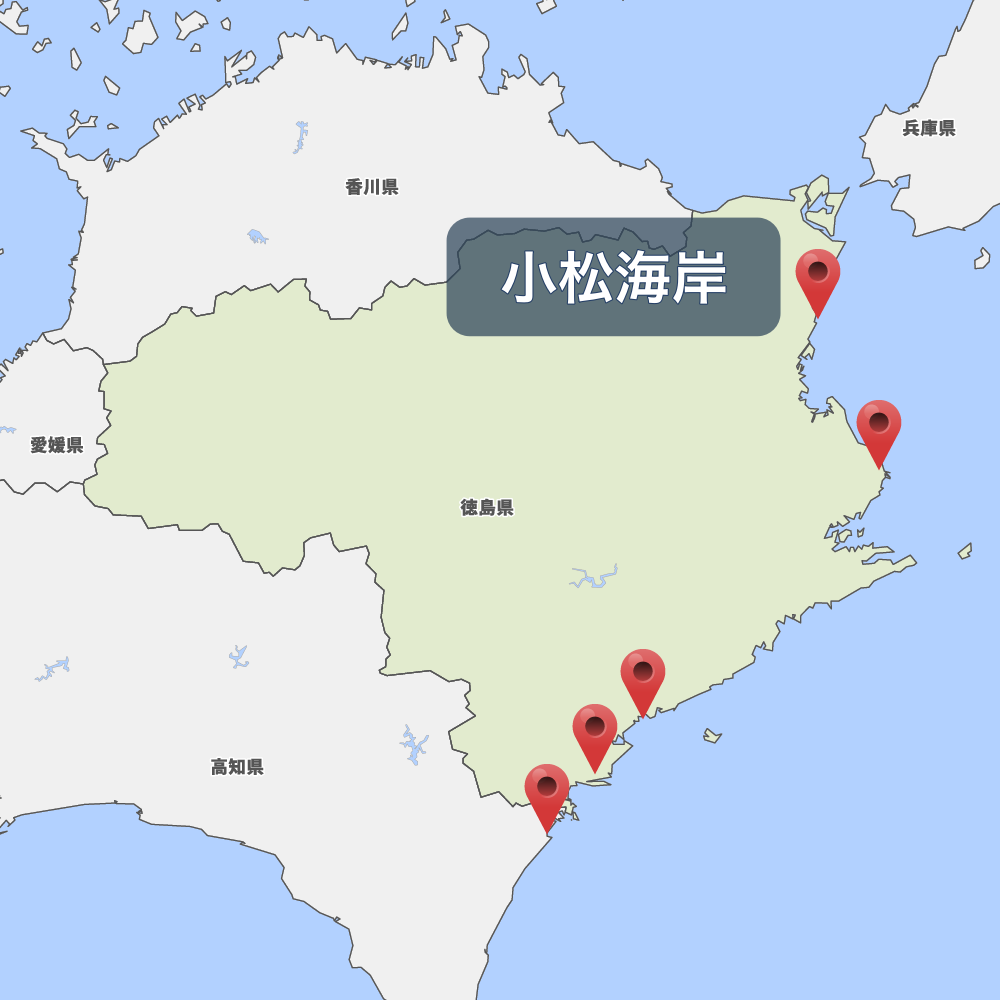
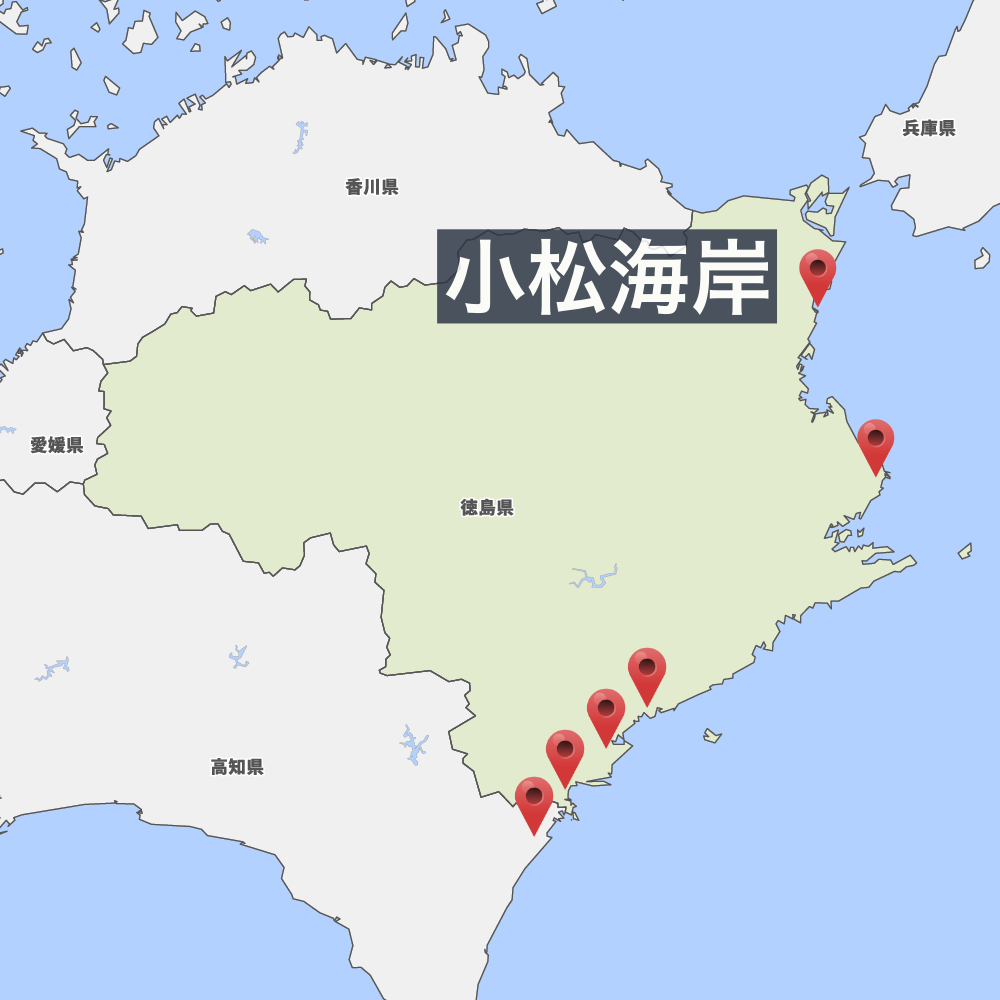
modify

Changed region(s): [[0.434, 0.217, 0.837, 0.341], [0.496, 0.651, 0.682, 0.837], [0.837, 0.403, 0.899, 0.465]]

diff --git a/index.html b/index.html
@@ -58,78 +58,39 @@
       </label>
 
       <div id="gnav-content">
-        <!-- タイトルを記載ください -->
         <div class="humb-menu__title">
           <img src = "image/logo.png" class = "humbmenu_logo">
         </div>
 
         <a href="#top">
           <label for="gnav-input">
-            <!-- 親要素の名前 -->
             <p>TOP</p>
-            <!-- <p><a href="#top">TOP</a></p> -->
           </label>
         </a>
-        <!-- <input type="checkbox" id="label1" class="cssacc" />
-        <div class="accshow"> -->
-          <!-- 子要素の名前 -->
-          <!-- <p>content</p>
-          <p>content</p>
-          <p>content</p>
-          <p>content</p>
-        </div> -->
 
         <a href="#map">
           <label for="gnav-input">
             <p>AREA MAP</p>
           </label>
         </a>
-        <!-- <input type="checkbox" id="label2" class="cssacc" />
-        <div class="accshow">
-          <p>content</p>
-          <p>content</p>
-          <p>content</p>
-          <p>content</p>
-        </div> -->
 
         <a href="#spot">
           <label for="gnav-input">
             <p>SURF SPOT</p>
           </label>
         </a>
-        <!-- <input type="checkbox" id="label3" class="cssacc" />
-        <div class="accshow">
-          <p>小松</p>
-          <p>内妻</p>
-          <p>宍喰</p>
-          <p>郁美</p>
-        </div> -->
 
         <a href="#lesson">
           <label for="gnav-input">
             <p>ONLINE LESSON</p>
           </label>
         </a>
-        <!-- <input type="checkbox" id="label4" class="cssacc" />
-        <div class="accshow">
-          <p>content</p>
-          <p>content</p>
-          <p>content</p>
-          <p>content</p>
-        </div> -->
 
         <a href="#contact">
           <label for="gnav-input">
             <p>CONTACT</p>
           </label>
         </a>
-        <!-- <input type="checkbox" id="label5" class="cssacc" />
-        <div class="accshow">
-          <p>content</p>
-          <p>content</p>
-          <p>content</p>
-          <p>content</p>
-        </div> -->
 
       </div>
     </div>
@@ -142,7 +103,6 @@
 
   <!-- main -->
   <!-- img -->
-  <!-- <img src = "image/home.jpg" class = "home_img"> -->
   <div class="slider_box">
     <ul class="slider">
       <li><img id="img1" src="image/profile2.jpg" alt=""></li>
@@ -159,23 +119,26 @@
   </div> -->
 
 
-<!-- <iframe width="650" height="450" src="https://embed.windy.com/embed2.html?lat=33.115&lon=134.314&detailLat=33.548&detailLon=134.360&width=650&height=450&zoom=7&level=surface&overlay=waves&product=ecmwfWaves&menu=&message=true&marker=&calendar=24&pressure=&type=map&location=coordinates&detail=&metricWind=default&metricTemp=default&radarRange=-1" frameborder="0"></iframe> -->
-<!-- <iframe src="http://weather-gpv.info/parts/bpm.php?model=cwm&element=wv&latsc=1&w=250&h=350&area=cs&lx=531&ly=308" width=250 height=350 scrolling=NO frameborder=0 border=0 marginwidth=0 marginheight=0></iframe> -->
-
-
-
   <!-- content -->
   <a id="map"></a>
   <div class="content_map">
     <h1 class='content_title'>AREA MAP</h1>
     <div class="areamap">
       <img src="image/map.png" class="areamap_image" usemap="#ImageMap" alt="" />
-      <map name="ImageMap">
-        <area shape="circle" coords="817,285,48" href="https://ameblo.jp/glaresurf/"　target="_blank" alt="komatu" id="map_komatu" />
-        <area shape="circle" coords="881,434,52" href="https://ameblo.jp/ikumi-michishio/" target="_blank"　alt="tatumi" id="map_tatumi" />
+      <!-- <map name="ImageMap">
+        <area shape="circle" coords="818,276,32" href="https://ameblo.jp/glaresurf/"　target="_blank" alt="komatu" id="map_komatu" />
+        <area shape="circle" coords="877,448,32" href="https://ameblo.jp/ikumi-michishio/" target="_blank"　alt="tatumi" id="map_tatumi" />
         <area shape="circle" coords="648,676,42" href="https://ameblo.jp/ikumi-michishio/" target="_blank"　alt="utizuma" id="map_utizuma" />
         <area shape="circle" coords="598,738,38" href="https://ameblo.jp/ikumi-michishio/" target="_blank"　alt="shirahama" id="map_shirahama"/>
         <area shape="circle" coords="548,800,37" href="https://ameblo.jp/ikumi-michishio/" target="_blank"　alt="ikumi" id="map_ikumi"/>
+      </map> -->
+      <map name="ImageMap">
+        <area shape="circle" coords="818,276,32" href="https://ameblo.jp/glaresurf/"　target="_blank" alt="komatu" id="map_komatu" />
+        <area shape="circle" coords="877,448,32" href="#map" alt="tatumi" id="map_tatumi" />
+        <area shape="circle" coords="649,672,29" href="#map" alt="utizuma" id="map_utizuma" />
+        <area shape="circle" coords="606,713,28" href="#map" alt="shishikui" id="map_shishikui"/>
+        <area shape="circle" coords="566,753,27" href="#map" alt="shirahama" id="map_shirahama"/>
+        <area shape="circle" coords="533,800,26" href="https://www.youtube.com/watch?v=nJ21An9OwgA" target="_blank"　 alt="ikumi" id="map_ikumi"/>
       </map>
     </div>
     <p>（ピンをタップするとオンラインレッスン動画に飛びます。）</p>
@@ -199,9 +162,9 @@
             <p>波質：ダンパー多め。潮の満ち引きにより若干の変動あり。</p>
             <p>潮の狙い目：小波=干潮、中,大波=満潮。満潮波の大きさにより変動あり。</p>
             <h2>CAUTION</h2>
-            <p>ダンパーな波質なため、ボードクラッシュに注意。堤防の付近はカレントに注意。</p>
+            <p>ダンパーな波質なため、ボードクラッシュに注意。堤防の付近はカレントに注意。夏には海水浴場にて規制があるため注意。</p>
           </div>
-          <img src = "image/profile.jpg" class = "box_image">
+          <img src = "image/komatu.jpg" class = "box_image">
         </div>
       </div>
 
@@ -218,7 +181,7 @@
             <h2>CAUTION</h2>
             <p>カレントが強いため注意。満潮時、砂浜が見えず危険。</p>
           </div>
-          <img src = "image/profile.jpg" class = "box_image">
+          <img src = "image/tatsumi.jpg" class = "box_image">
         </div>
       </div>
 
@@ -252,7 +215,24 @@
             <h2>CAUTION</h2>
             <p>満潮時にはテトラポットが海水に浸かるため、サーフィン時には注意。</p>
           </div>
-          <img src = "image/profile.jpg" class = "box_image">
+          <img src = "image/shishikui.jpg" class = "box_image">
+        </div>
+      </div>
+
+      <div class="box">
+        <div class="box_wrap">
+          <div class="sentence_box">
+            <h1>白浜海岸 <span>(Shirahama)</span></h1>
+            <h2>ACCESS</h2>
+            <p>〒781-7413 高知県安芸郡東洋町白浜</p>
+            <h2>FEATURE</h2>
+            <p>うねり：南</p>
+            <p>波質：優しい</p>
+            <p>潮の狙い目：常に良い</p>
+            <h2>CAUTION</h2>
+            <p>台風時など良い波がくる。夏は海水浴場として規制があるため注意。</p>
+          </div>
+          <img src = "image/shirahama.jpg" class = "box_image">
         </div>
       </div>
 
@@ -269,7 +249,7 @@
             <h2>CAUTION</h2>
             <p>ポイント中央に岩があるため注意。</p>
           </div>
-          <img src = "image/profile.jpg" class = "box_image">
+          <img src = "image/ikumi.jpg" class = "box_image">
         </div>
       </div>
       
@@ -281,35 +261,35 @@
     <h1 class='content_title'>ONLINE LESSON</h1>
 
     <div class="lesson_detail">
-      <img src = "image/profile.jpg" class = "lesson_image">
+      <img src = "image/0.png" class = "lesson_image">
       <h1 class="lesson_number" id='lesson0_number'><span>00</span>パドリング</h1>
       <div class="sentence_lesson" id='lesson0_sentence'>
         <p>波に乗るためにはパドリングが必要です。波がきたと思ったら、まずはパドリングをしましょう。</p>
-        <h2>胸を張って、常に顔をあげ前を向くようにしましょう！</h2>
+        <h2>常に、胸を張って、顔をあげ、目線が前に向くようにしましょう！</h2>
       </div>
     </div>
 
     <div class="lesson_detail">
-      <img src = "image/profile.jpg" class = "lesson_image">
-      <h1 class="lesson_number" id='lesson1_number'><span>01</span>しゃちほこ</h1>
+      <img src = "image/1.png" class = "lesson_image">
+      <h1 class="lesson_number" id='lesson1_number'><span>01</span>腕立ての姿勢</h1>
       <div class="sentence_lesson" id='lesson1_sentence'>
         <p>はじめに、手を胸の横につけます。そして、腕を伸ばして体を持ち上げる姿勢を作ります。</p>
-        <h2>前を向き、しゃちほこ意識！</h2>
+        <h2>腕ををつく際、目線を下に落とさないようにしましょう！</h2>
       </div>
     </div>
 
     <div class="lesson_detail">
-      <img src = "image/profile.jpg" class = "lesson_image">
-      <h1 class="lesson_number" id='lesson2_number'><span>02</span>膝着きしゃちほこ</h1>
+      <img src = "image/2.png" class = "lesson_image">
+      <h1 class="lesson_number" id='lesson2_number'><span>02</span>右膝をつく</h1>
       <div class="sentence_lesson" id='lesson2_sentence'>
         <p>次に立った際、後ろ足になる足の膝をおへその下につきます。その際に足の指先は立てるようにします。</p>
-        <h2>ここでは爪先立てること意識しよう！</h2>
+        <h2>つま先を立てるようにしましょう！</h2>
       </div>
     </div>
 
     <div class="lesson_detail">
-      <img src = "image/profile.jpg" class = "lesson_image">
-      <h1 class="lesson_number" id='lesson3_number'><span>03</span>スタート姿勢</h1>
+      <img src = "image/3.png" class = "lesson_image">
+      <h1 class="lesson_number" id='lesson3_number'><span>03</span>左足をつく</h1>
       <div class="sentence_lesson" id='lesson3_sentence'>
         <p>立った際に、前足になる足を手と手の間につきます。その際に手がサーフボードから離れないようにしましょう。</p>
         <h2>手はサーフボードから離さないようにしましょう！</h2>
@@ -317,11 +297,11 @@
     </div>
 
     <div class="lesson_detail">
-      <img src = "image/profile.jpg" class = "lesson_image">
+      <img src = "image/4.png" class = "lesson_image">
       <h1 class="lesson_number" id='lesson4_number'><span>04</span>立ち上がる</h1>
       <div class="sentence_lesson" id='lesson4_sentence'>
         <p>最後にサーフボードについていた手を離し、バランスを取りながら立ち上がりましょう。膝は常に軽く曲げた状態をキープします。</p>
-        <h2>立ち上がるときはバランスを取りましょう！</h2>
+        <h2>目線を行きたい方向に向け立ちましょう！</h2>
       </div>
     </div>
 

diff --git a/js/maphover.js b/js/maphover.js
@@ -32,6 +32,18 @@ $(function(){
       }
     );
 
+  $("#map_shishikui").hover(
+      function() {
+        $(".areamap_image").attr("src", "image/map_shishikui.png");
+        // $(this).addClass("is-hover");
+      },
+      function() {
+        $(".areamap_image").attr("src", "image/map.png");
+        // $(this).removeClass("is-hover");
+      }
+    );
+
+
   $("#map_shirahama").hover(
       function() {
         $(".areamap_image").attr("src", "image/map_shirahama.png");

diff --git a/stylesheet.css b/stylesheet.css
@@ -359,7 +359,7 @@ li{
 
 .content_title{
   /* border: solid 1px #d1caca; */
-  background : #3296c8;
+  background : #444444	;
   color: white;
   border-radius: 5px;
   padding: 10px;
